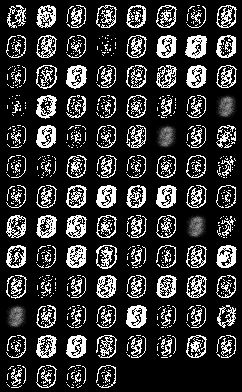
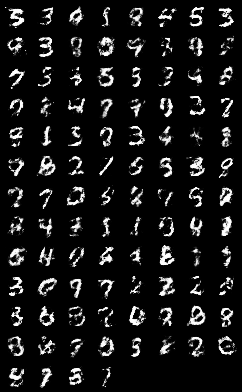
fixed math bug

diff --git a/s4_debugging/exercise_files/vae_mnist_bugs.py b/s4_debugging/exercise_files/vae_mnist_bugs.py
@@ -20,7 +20,7 @@ x_dim = 784
 hidden_dim = 400
 latent_dim = 20
 lr = 1e-3
-epochs = 5
+epochs = 10000
 
 
 # Data loading
@@ -51,7 +51,8 @@ class Encoder(nn.Module):
         h_ = torch.relu(self.FC_input(x))
         mean = self.FC_mean(h_)
         log_var = self.FC_var(h_)
-        z = self.reparameterization(mean, log_var)
+        var = torch.exp(log_var)
+        z = self.reparameterization(mean, var)
         return z, mean, log_var
 
     def reparameterization(self, mean, var):
@@ -108,31 +109,56 @@ def loss_function(x, x_hat, mean, log_var):
 
 optimizer = Adam(model.parameters(), lr=lr)
 
-print("Start training VAE...")
+# # full training loop
+# print("Start training VAE...")
+# model.train()
+# for epoch in range(epochs):
+#     overall_loss = 0
+#     for batch_idx, (x, _) in enumerate(train_loader):
+#         if batch_idx % 100 == 0:
+#             print(batch_idx)
+#         x = x.view(batch_size, x_dim)
+#         x = x.to(DEVICE)
+#         optimizer.zero_grad() # zero the gradients
+#         x_hat, mean, log_var = model(x)
+#         loss = loss_function(x, x_hat, mean, log_var)
+
+#         overall_loss += loss.item()
+
+#         loss.backward()
+#         optimizer.step()
+#     print(
+#         "\tEpoch",
+#         epoch + 1,
+#         "complete!",
+#         "\tAverage Loss: ",
+#         overall_loss / (batch_idx * batch_size),
+#     )
+# print("Finish!!")
+
+
+# single batch for reconstruction and generation
+print("Start VAE using single batch...")
 model.train()
+# Get a single batch
+single_batch = next(iter(train_loader))
+x_single, _ = single_batch
+x_single = x_single.view(batch_size, x_dim).to(DEVICE) # reshape and add to device
+
 for epoch in range(epochs):
-    overall_loss = 0
-    for batch_idx, (x, _) in enumerate(train_loader):
-        if batch_idx % 100 == 0:
-            print(batch_idx)
-        x = x.view(batch_size, x_dim)
-        x = x.to(DEVICE)
 
-        x_hat, mean, log_var = model(x)
-        loss = loss_function(x, x_hat, mean, log_var)
+    optimizer.zero_grad()
 
-        overall_loss += loss.item()
+    x_hat, mean, log_var = model(x_single)
+    loss = loss_function(x_single, x_hat, mean, log_var)
+    loss.backward()
+    optimizer.step()
+    if epoch % 100 == 0:
+        print(f"Epoch: {epoch+1}, Loss: {loss.item():.4f}")
+print("Finish single-batch debug!!")
 
-        loss.backward()
-        optimizer.step()
-    print(
-        "\tEpoch",
-        epoch + 1,
-        "complete!",
-        "\tAverage Loss: ",
-        overall_loss / (batch_idx * batch_size),
-    )
-print("Finish!!")
+#  save single batch orig
+save_image(x_single.view(batch_size, 1, 28, 28), "single_batch_orig_data.png")
 
 # Generate reconstructions
 model.eval()
